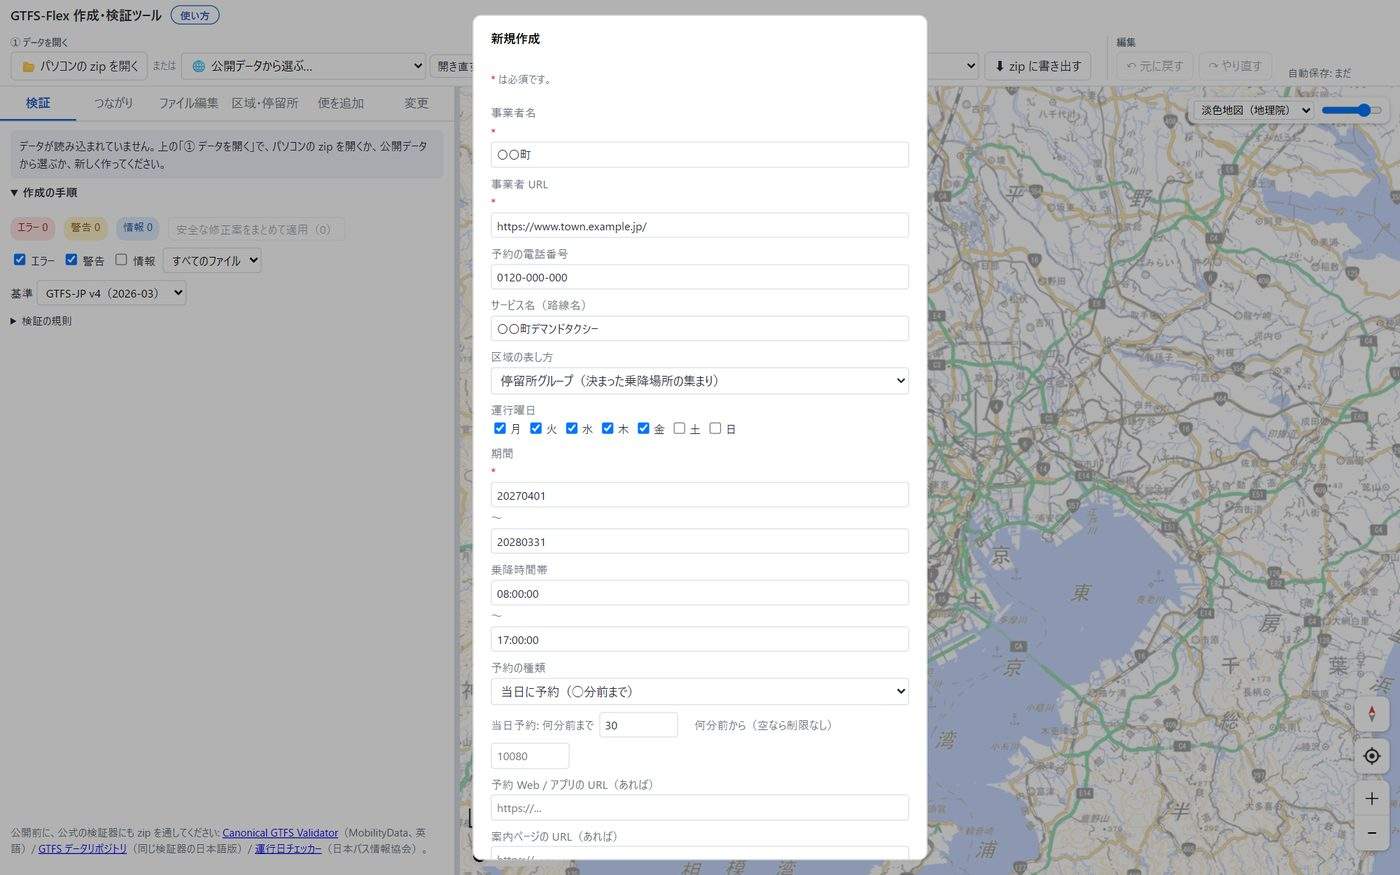
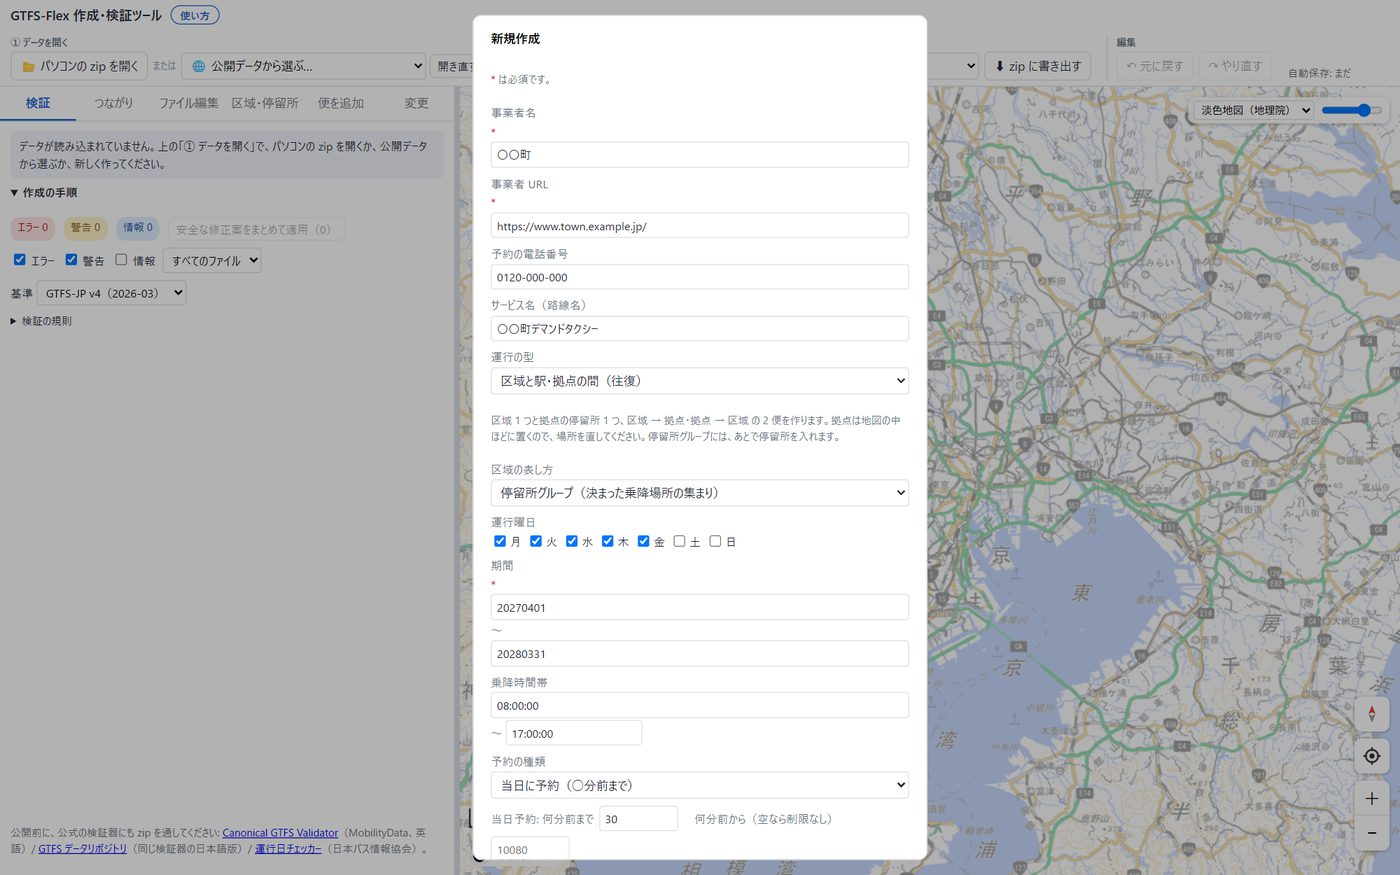
新規作成に運行の型のひな形

Changed region(s): [[0.3379, 0.4011, 0.645, 0.9874], [0.4914, 0.9257, 0.5836, 0.9566], [0.4914, 0.8023, 0.5836, 0.8331]]

diff --git a/js/gtfs.js b/js/gtfs.js
@@ -201,11 +201,58 @@
     ensureTable(f, 'location_groups.txt');
     ensureTable(f, 'location_group_stops.txt');
     if (opt.zoneKind === 'polygon' || opt.zoneKind === 'both') f.locations = { type: 'FeatureCollection', features: [] };
+    if (opt.pattern && opt.pattern !== 'zone') { addPattern(f, opt); return f; }
     if (opt.zoneKind !== 'polygon') {
       f.files['location_groups.txt'].rows.push(newRow('location_groups.txt', { location_group_id: 'zone1', location_group_name: opt.zoneName || '運行区域' }));
       addZoneTrip(f, { tripId: 'trip1', routeId: 'route1', serviceId: 'service1', ref: { location_group_id: 'zone1' }, start: opt.windowStart || '08:00:00', end: opt.windowEnd || '17:00:00', bookingRuleId: 'rule1' });
     }
     return f;
+  }
+
+  // 運行の型（新規作成の「運行の型」）。区域の中だけ（zone）は templateFeed の中で作る。ほかの型は便・区域・停留所の組み立てをここで作る。
+  //   hub      区域と駅・拠点の間（区域で乗って拠点で降りる・拠点で乗って区域で降りる。往復の 2 便）
+  //   zones    2 つの区域の間（区域 A ⇄ 区域 B。往復の 2 便）
+  //   route    決まった停留所を予約で回る（定時定路線の予約制。停留所 3 つを時刻どおりに。予約があるときだけ走る）
+  //   deviated 経路から外れて寄り道（停留所 A を出て、区域の中で予約に応じて寄り道し、停留所 B に着く）
+  // 停留所と区域ポリゴン（仮の四角）は opt.center（地図の中ほど）のまわりに置く。場所と形は地図で直す。区域が停留所グループのときは、停留所はあとで入れる
+  const PATTERNS = { zone: '区域の中で自由に乗り降り', hub: '区域と駅・拠点の間', zones: '2 つの区域の間', route: '決まった停留所を予約で回る', deviated: '経路から外れて寄り道' };
+  function addPattern(f, opt) {
+    const [cx, cy] = opt.center || [139.767, 35.681];
+    const ll = (dx, dy) => ({ stop_lon: (cx + dx).toFixed(6), stop_lat: (cy + dy).toFixed(6) });
+    const kind = opt.zoneKind || 'group', start = opt.windowStart || '08:00:00', end = opt.windowEnd || '17:00:00';
+    const base = { routeId: 'route1', serviceId: 'service1', bookingRuleId: 'rule1', start, end };
+    const stop = (id, name, dx, dy) => { ensureTable(f, 'stops.txt').rows.push(newRow('stops.txt', Object.assign({ stop_id: id, stop_name: name, location_type: '0' }, ll(dx, dy)))); return { stop_id: id }; };
+    const zone = (k, name, dx) => { // 区域 1 つ。グループか、仮の四角のポリゴン（反時計回り）
+      if (kind === 'polygon') {
+        const x0 = cx + dx - 0.015, x1 = cx + dx + 0.015, y0 = cy - 0.012, y1 = cy + 0.012;
+        if (!f.locations) f.locations = { type: 'FeatureCollection', features: [] };
+        f.locations.features.push({ type: 'Feature', id: 'area' + k, properties: { stop_name: name }, geometry: { type: 'Polygon', coordinates: [[[x0, y0], [x1, y0], [x1, y1], [x0, y1], [x0, y0]]] } });
+        return { location_id: 'area' + k };
+      }
+      f.files['location_groups.txt'].rows.push(newRow('location_groups.txt', { location_group_id: 'zone' + k, location_group_name: name }));
+      return { location_group_id: 'zone' + k };
+    };
+    if (opt.pattern === 'hub') {
+      const z = zone(1, opt.zoneName || '運行区域', 0), h = stop('hub1', '拠点（駅など）', 0.035, 0);
+      addZoneTrip(f, Object.assign({ tripId: 'trip1', ref: z, refTo: h, roundTrip: true, headsign: '拠点（駅など）', headsignBack: opt.zoneName || '運行区域' }, base));
+    } else if (opt.pattern === 'zones') {
+      const a = zone(1, '区域A', -0.02), b = zone(2, '区域B', 0.02);
+      addZoneTrip(f, Object.assign({ tripId: 'trip1', ref: a, refTo: b, roundTrip: true, headsign: '区域B', headsignBack: '区域A' }, base));
+    } else if (opt.pattern === 'route') {
+      const t0 = parseTime(start) || 8 * 3600, st = ensureTable(f, 'stop_times.txt');
+      f.files['trips.txt'].rows.push(newRow('trips.txt', { route_id: 'route1', service_id: 'service1', trip_id: 'trip1', trip_headsign: '停留所3', direction_id: '0' }));
+      [['stop1', '停留所1', -0.02, '2', '1'], ['stop2', '停留所2', 0, '2', '2'], ['stop3', '停留所3', 0.02, '1', '2']].forEach(([id, name, dx, pt, dt], k) => {
+        stop(id, name, dx, 0); const tm = fmtTime(t0 + k * 600);
+        st.rows.push(newRow('stop_times.txt', { trip_id: 'trip1', stop_id: id, stop_sequence: String(k + 1), arrival_time: tm, departure_time: tm, pickup_type: pt, drop_off_type: dt, pickup_booking_rule_id: pt === '2' ? 'rule1' : '', drop_off_booking_rule_id: dt === '2' ? 'rule1' : '', timepoint: '1' }));
+      });
+    } else if (opt.pattern === 'deviated') {
+      const st = ensureTable(f, 'stop_times.txt');
+      stop('stop1', '停留所A', -0.03, 0); const z = zone(1, '寄り道できる区域', 0); stop('stop2', '停留所B', 0.03, 0);
+      f.files['trips.txt'].rows.push(newRow('trips.txt', { route_id: 'route1', service_id: 'service1', trip_id: 'trip1', trip_headsign: '停留所B', direction_id: '0' }));
+      st.rows.push(newRow('stop_times.txt', { trip_id: 'trip1', stop_id: 'stop1', stop_sequence: '1', arrival_time: start, departure_time: start, pickup_type: '0', drop_off_type: '1', timepoint: '1' }));
+      st.rows.push(newRow('stop_times.txt', Object.assign({ trip_id: 'trip1', stop_sequence: '2', start_pickup_drop_off_window: start, end_pickup_drop_off_window: end, pickup_type: '2', drop_off_type: '2', pickup_booking_rule_id: 'rule1', drop_off_booking_rule_id: 'rule1' }, z)));
+      st.rows.push(newRow('stop_times.txt', { trip_id: 'trip1', stop_id: 'stop2', stop_sequence: '3', arrival_time: end, departure_time: end, pickup_type: '1', drop_off_type: '0', timepoint: '1' }));
+    }
   }
 
   // 区域運行の便を足す（GTFS-JP 4.0 ガイドライン 第3部 2.7 の型に沿う）。
@@ -231,5 +278,5 @@
     else { mk(o.tripId + '_1', from, to, o.headsign, 0); mk(o.tripId + '_2', to, from, o.headsignBack || '', 1); }
   }
 
-  window.GTFS = { SPEC, ORDER, parseCSV, tableFromCSV, tableToCSV, emptyFeed, ensureTable, addSpecColumns, rows, removeStops, newRow, TR_NAMES, addTranslations, loadZip, saveZip, parseTime, fmtTime, templateFeed, addZoneTrip };
+  window.GTFS = { SPEC, ORDER, parseCSV, tableFromCSV, tableToCSV, emptyFeed, ensureTable, addSpecColumns, rows, removeStops, newRow, TR_NAMES, addTranslations, loadZip, saveZip, parseTime, fmtTime, templateFeed, PATTERNS, addZoneTrip };
 })();

diff --git a/index.html b/index.html
@@ -5,7 +5,7 @@
 <meta name="viewport" content="width=device-width, initial-scale=1">
 <title>GTFS-Flex 作成・検証ツール</title>
 <link rel="stylesheet" href="https://cdnjs.cloudflare.com/ajax/libs/maplibre-gl/4.7.1/maplibre-gl.min.css">
-<link rel="stylesheet" href="css/style.css?v=79a92ea-mvc1b59p">
+<link rel="stylesheet" href="css/style.css?v=67f68e8-mvc1n745">
 </head>
 <body>
 <header class="topbar">
@@ -180,7 +180,17 @@
     <label>事業者 URL <span class="req">*</span> <input name="agencyUrl" type="url" required placeholder="https://www.town.example.lg.jp/"></label>
     <label>予約の電話番号 <input name="phone" placeholder="0120-000-000"></label>
     <label>サービス名（路線名） <input name="routeName" placeholder="○○デマンド交通"></label>
-    <label>区域の表し方
+    <label>運行の型
+      <select name="pattern">
+        <option value="zone">区域の中で自由に乗り降り</option>
+        <option value="hub">区域と駅・拠点の間（往復）</option>
+        <option value="zones">2 つの区域の間（往復）</option>
+        <option value="route">決まった停留所を予約で回る</option>
+        <option value="deviated">経路から外れて寄り道</option>
+      </select>
+    </label>
+    <p id="patternNote" class="muted small"></p>
+    <label class="zk">区域の表し方
       <select name="zoneKind">
         <option value="group">停留所グループ（決まった乗降場所の集まり）</option>
         <option value="polygon">区域ポリゴン（区域内のどこでも乗り降り）</option>
@@ -191,7 +201,7 @@
       <label><input type="checkbox" name="d0" checked>月</label><label><input type="checkbox" name="d1" checked>火</label><label><input type="checkbox" name="d2" checked>水</label><label><input type="checkbox" name="d3" checked>木</label><label><input type="checkbox" name="d4" checked>金</label><label><input type="checkbox" name="d5">土</label><label><input type="checkbox" name="d6">日</label>
     </span></label>
     <label>期間 <span class="req">*</span> <input name="startDate" placeholder="20260401" pattern="\d{8}" required> 〜 <input name="endDate" placeholder="20270331" pattern="\d{8}" required></label>
-    <label>乗降時間帯 <input name="windowStart" value="08:00:00" pattern="\d{1,2}:\d{2}:\d{2}"> 〜 <input name="windowEnd" value="17:00:00" pattern="\d{1,2}:\d{2}:\d{2}"></label>
+    <label><span id="winLabel">乗降時間帯</span> <input name="windowStart" value="08:00:00" pattern="\d{1,2}:\d{2}:\d{2}"><span class="winEnd"> 〜 <input name="windowEnd" value="17:00:00" pattern="\d{1,2}:\d{2}:\d{2}"></span></label>
     <label>予約の種類
       <select name="bookingType">
         <option value="1">当日に予約（○分前まで）</option>
@@ -218,15 +228,15 @@
 
 <script src="https://cdnjs.cloudflare.com/ajax/libs/jszip/3.10.1/jszip.min.js"></script>
 <script src="https://cdnjs.cloudflare.com/ajax/libs/maplibre-gl/4.7.1/maplibre-gl.min.js"></script>
-<script src="js/spec.js?v=79a92ea-mvc1b59p"></script>
-<script src="js/gtfs.js?v=79a92ea-mvc1b59p"></script>
-<script src="js/versions.js?v=79a92ea-mvc1b59p"></script>
-<script src="js/validate.js?v=79a92ea-mvc1b59p"></script>
-<script src="js/map.js?v=79a92ea-mvc1b59p"></script>
-<script src="js/odpt.js?v=79a92ea-mvc1b59p"></script>
-<script src="js/store.js?v=79a92ea-mvc1b59p"></script>
-<script src="js/diff.js?v=79a92ea-mvc1b59p"></script>
-<script src="js/graph.js?v=79a92ea-mvc1b59p"></script>
-<script src="js/app.js?v=79a92ea-mvc1b59p"></script>
+<script src="js/spec.js?v=67f68e8-mvc1n745"></script>
+<script src="js/gtfs.js?v=67f68e8-mvc1n745"></script>
+<script src="js/versions.js?v=67f68e8-mvc1n745"></script>
+<script src="js/validate.js?v=67f68e8-mvc1n745"></script>
+<script src="js/map.js?v=67f68e8-mvc1n745"></script>
+<script src="js/odpt.js?v=67f68e8-mvc1n745"></script>
+<script src="js/store.js?v=67f68e8-mvc1n745"></script>
+<script src="js/diff.js?v=67f68e8-mvc1n745"></script>
+<script src="js/graph.js?v=67f68e8-mvc1n745"></script>
+<script src="js/app.js?v=67f68e8-mvc1n745"></script>
 </body>
 </html>

diff --git a/js/app.js b/js/app.js
@@ -406,12 +406,30 @@
   $('#btnNew').addEventListener('click', () => $('#newDialog').showModal());
   $('#newForm').querySelector('[name=bookingType]').addEventListener('change', e => { const v = e.target.value; $('#newForm .bt1').style.display = v === '1' ? '' : 'none'; $('#newForm .bt2').style.display = v === '2' ? '' : 'none'; });
   $('#newForm .bt2').style.display = 'none';
+  // 運行の型: 何ができるかの説明と、型に合わない欄を隠す
+  const PATTERN_NOTE = {
+    zone: '区域の中で乗って、同じ区域の中で降りる便を 1 本作ります（区域ポリゴンのときは、区域を地図で描いてから便を足します）。',
+    hub: '区域 1 つと拠点の停留所 1 つ、区域 → 拠点・拠点 → 区域 の 2 便を作ります。拠点は地図の中ほどに置くので、場所を直してください。',
+    zones: '区域 A・B と、A → B・B → A の 2 便を作ります。',
+    route: '停留所 3 つと、10 分おきに回る便を 1 本作ります。どの停留所も予約して乗り降りします（区域は使いません）。停留所は地図の中ほどに置くので、場所と名前を直してください。',
+    deviated: '停留所 A・B と、その間の寄り道できる区域、A → 区域 → B の便を 1 本作ります。A を出る時刻から B に着く時刻まで、区域の中で予約に応じて乗り降りします。',
+  };
+  const syncPattern = () => {
+    const f = $('#newForm'), p = f.elements.pattern.value, k = f.elements.zoneKind.value;
+    $('#patternNote').textContent = PATTERN_NOTE[p] + (k === 'polygon' && p !== 'zone' && p !== 'route' ? '区域ポリゴンは仮の四角を置くので、形を地図で直してください。' : k !== 'polygon' && p !== 'route' ? '停留所グループには、あとで停留所を入れます。' : '');
+    f.querySelector('.zk').style.display = p === 'route' ? 'none' : '';
+    $('#winLabel').textContent = p === 'route' ? '始発の時刻' : p === 'deviated' ? '停留所 A を出る時刻 〜 B に着く時刻' : '乗降時間帯';
+    f.querySelector('.winEnd').style.display = p === 'route' ? 'none' : '';
+  };
+  $('#newForm').elements.pattern.addEventListener('change', syncPattern); $('#newForm').elements.zoneKind.addEventListener('change', syncPattern); syncPattern();
+  $('#newForm').addEventListener('reset', () => setTimeout(syncPattern, 0));
   $('#newForm').addEventListener('submit', e => {
     if (e.submitter && e.submitter.value !== 'ok') return;
     const fd = new FormData(e.target);
     const o = Object.fromEntries(fd.entries());
     o.days = [0, 1, 2, 3, 4, 5, 6].map(i => fd.get('d' + i) ? 1 : 0);
     o.agencyId = 'agency1'; o.zoneName = '運行区域';
+    try { const c = M.map && M.map.getCenter(); if (c) o.center = [c.lng, c.lat]; } catch (err) { /* 地図がまだ */ }
     if (!o.bookingMessage) {
       const how = [o.phone ? '電話' : '', o.bookingUrl ? 'Web' : ''].filter(Boolean).join('か') || '電話';
       o.bookingMessage = o.bookingType === '0' ? '予約なしで乗れます' : o.bookingType === '2' ? `${o.lastDay || 1} 日前の ${(o.lastTime || '17:00:00').slice(0, 5)} までに${how}で予約してください` : `ご利用の ${o.noticeMin || 30} 分前までに${how}で予約してください`;

diff --git a/manual.html b/manual.html
@@ -94,7 +94,15 @@ a { color: var(--accent); }
 <section>
   <h2><span class="no">2</span>まっさらから作る</h2>
   <p><span class="btn">＋ 新しく作る</span> で、事業者名・URL・予約の電話番号・サービス名・区域の表し方・運行曜日・期間・乗り降りできる時間帯・予約の種類を入れると、必要なファイルがそろいます。必須の欄には <span class="err">*</span> が付いています。</p>
-  <figure><img src="manual/05_new.jpg" alt="新規作成の画面" loading="lazy"><figcaption>新規作成。区域の表し方は「停留所グループ（決まった乗降場所の集まり）」か「区域ポリゴン（区域の中ならどこでも）」</figcaption></figure>
+  <p>最初の「運行の型」で、ひな形を選べます。選ぶと、その型の便・区域・停留所が組み立てられた状態で始まります。停留所と区域ポリゴン（仮の四角）は地図の中ほどに置くので、場所・形・名前を直して使います。</p>
+  <ul>
+    <li><b>区域の中で自由に乗り降り</b> … 区域の中で乗って同じ区域の中で降りる便 1 本（区域ポリゴンのときは、区域を描いてから便を足します）</li>
+    <li><b>区域と駅・拠点の間（往復）</b> … 区域 1 つと拠点の停留所 1 つ、区域 → 拠点・拠点 → 区域 の 2 便</li>
+    <li><b>2 つの区域の間（往復）</b> … 区域 A・B と、A → B・B → A の 2 便</li>
+    <li><b>決まった停留所を予約で回る</b> … 停留所 3 つを 10 分おきに回る便 1 本。どの停留所も予約して乗り降り（区域は使いません）</li>
+    <li><b>経路から外れて寄り道</b> … 停留所 A を出て、区域の中で予約に応じて寄り道し、停留所 B に着く便 1 本</li>
+  </ul>
+  <figure><img src="manual/05_new.jpg" alt="新規作成の画面" loading="lazy"><figcaption>新規作成。運行の型を選び、区域の表し方は「停留所グループ（決まった乗降場所の集まり）」か「区域ポリゴン（区域の中ならどこでも）」</figcaption></figure>
   <h3>区域・停留所（「区域・停留所」タブ）</h3>
   <ul>
     <li>停留所は、<span class="btn">地図をクリックして追加</span> を押してから地図をクリックした所に置きます。<span class="btn">ドラッグで移動</span> で動かせます</li>

diff --git a/README.md b/README.md
@@ -9,4 +9,4 @@ https://tyra0119.github.io/pj_gtfs/ （使い方: https://tyra0119.github.io/pj_
 - サンプル: 公共交通オープンデータセンター（CC BY 4.0）
 - 準拠: GTFS Schedule 仕様（gtfs.org）、国土交通省 COMmmmONS「GTFS-JP 4.0 ガイドライン」第3部 Flex 拡張
 
-版: 79a92ea-mvc1b59p
+版: 67f68e8-mvc1n745
